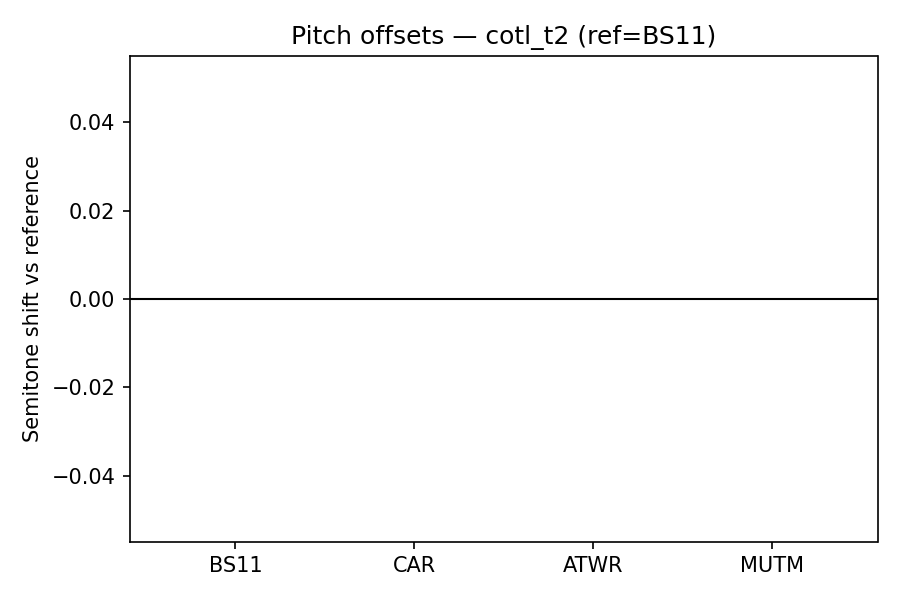
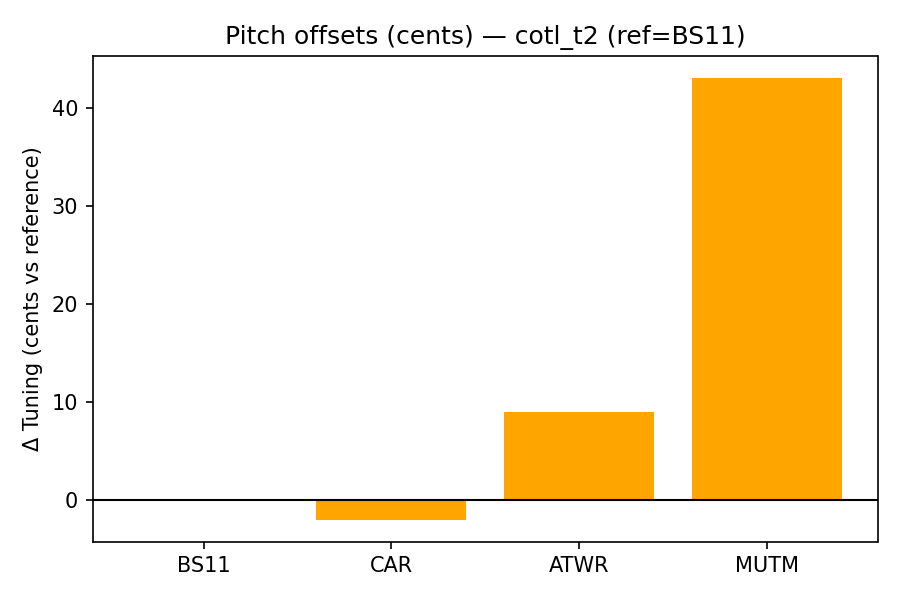
pitch analysis graphs now use cents

diff --git a/utils/analyse_song.py b/utils/analyse_song.py
@@ -556,14 +556,14 @@ def pitch_speed_analysis(features, outdir, song_label, ref_label=None):
                 f"duration_ratio(ref/cmp)={r['duration_ratio_ref_over_cmp']:.4f}\n"
             )
 
-    # Plot offsets
+    # Plot offsets (in cents)
     labels = [r["cmp_label"] for r in rows]
-    shifts = [r["semitone_shift_vs_ref"] for r in rows]
+    shifts_cents = [r["delta_tuning_cents"] for r in rows]
     plt.figure(figsize=(6, 4))
-    plt.bar(labels, shifts, color="purple")
+    plt.bar(labels, shifts_cents, color="orange")
     plt.axhline(0, color="k", linewidth=1)
-    plt.ylabel("Semitone shift vs reference")
-    plt.title(f"Pitch offsets — {song_label} (ref={ref_label_used})")
+    plt.ylabel("Δ Tuning (cents vs reference)")
+    plt.title(f"Pitch offsets (cents) — {song_label} (ref={ref_label_used})")
     plt.tight_layout()
     out_png = os.path.join(outdir, f"{song_label}-pitch_offsets.png")
     plt.savefig(out_png, dpi=150)
@@ -644,7 +644,7 @@ def generate_markdown(song_label, song_title, features, outdir, ref_label=None):
         pitch_summary = os.path.join(outdir, f"{song_label}-pitch_summary.txt")
         pitch_plot = os.path.join(outdir, f"{song_label}-pitch_offsets.png")
         if os.path.exists(pitch_csv):
-            fmd.write("## Pitch & Speed Analysis\n\n")
+            fmd.write("## Pitch & Speed Analysis (cents)\n\n")
             fmd.write(f"Reference version: **{ref_label or features[0]['label']}**\n\n")
 
             df_pitch = pd.read_csv(pitch_csv)
@@ -660,6 +660,11 @@ def generate_markdown(song_label, song_title, features, outdir, ref_label=None):
                     fmd.write("```\n")
                     fmd.write(ps.read())
                     fmd.write("```\n\n")
+                    # Links to CSV and TXT
+                    # fmd.write(f"- [Pitch report CSV]({os.path.basename(pitch_csv)})\n")
+                    # fmd.write(
+                    # f"- [Pitch summary TXT]({os.path.basename(pitch_summary)})\n\n"
+                    # )
 
     return md_path
 

diff --git a/docs/songs/cotl_t2.md b/docs/songs/cotl_t2.md
@@ -101,7 +101,7 @@ song_label: cotl_t2
 
 ![Mel Spectrogram (Mono)](../assets/songs/cotl_t2/cotl_t2-MUTM_melspec_Mono.png)
 
-## Pitch & Speed Analysis
+## Pitch & Speed Analysis (cents)
 
 Reference version: **BS11**
 
@@ -123,4 +123,7 @@ CAR: shift=0 st ; Δtuning=-2.0 cents ; speed_from_pitch=1.0000 ; duration_ratio
 ATWR: shift=0 st ; Δtuning=9.0 cents ; speed_from_pitch=1.0000 ; duration_ratio(ref/cmp)=0.9955
 MUTM: shift=0 st ; Δtuning=43.0 cents ; speed_from_pitch=1.0000 ; duration_ratio(ref/cmp)=1.0170
 ```
+
+- [Pitch report CSV](../assets/songs/cotl_t2/cotl_t2-pitch_report.csv)
+- [Pitch summary TXT](../assets/songs/cotl_t2/cotl_t2-pitch_summary.txt)
 

diff --git a/results/cotl_t2/cotl_t2.md b/results/cotl_t2/cotl_t2.md
@@ -101,7 +101,7 @@ song_label: cotl_t2
 
 ![Mel Spectrogram (Mono)](cotl_t2-MUTM_melspec_Mono.png)
 
-## Pitch & Speed Analysis
+## Pitch & Speed Analysis (cents)
 
 Reference version: **BS11**
 
@@ -123,4 +123,7 @@ CAR: shift=0 st ; Δtuning=-2.0 cents ; speed_from_pitch=1.0000 ; duration_ratio
 ATWR: shift=0 st ; Δtuning=9.0 cents ; speed_from_pitch=1.0000 ; duration_ratio(ref/cmp)=0.9955
 MUTM: shift=0 st ; Δtuning=43.0 cents ; speed_from_pitch=1.0000 ; duration_ratio(ref/cmp)=1.0170
 ```
+
+- [Pitch report CSV](cotl_t2-pitch_report.csv)
+- [Pitch summary TXT](cotl_t2-pitch_summary.txt)
 
